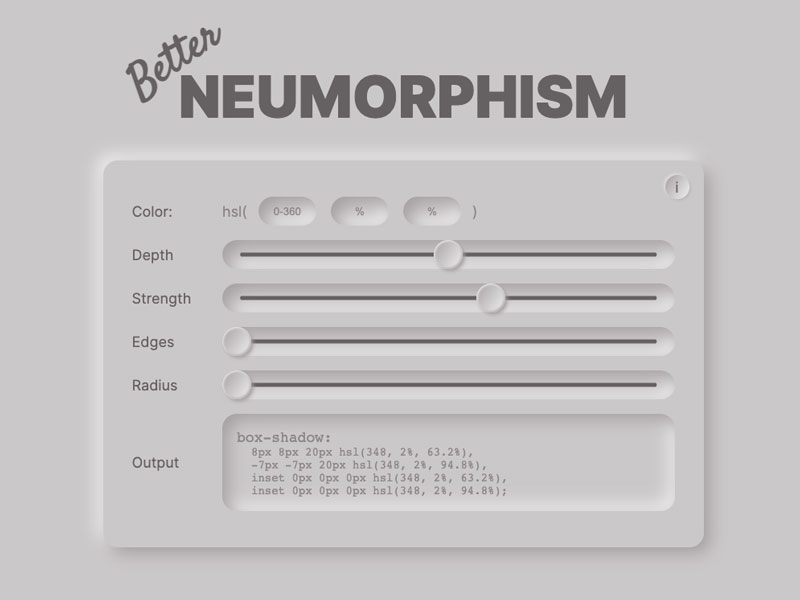
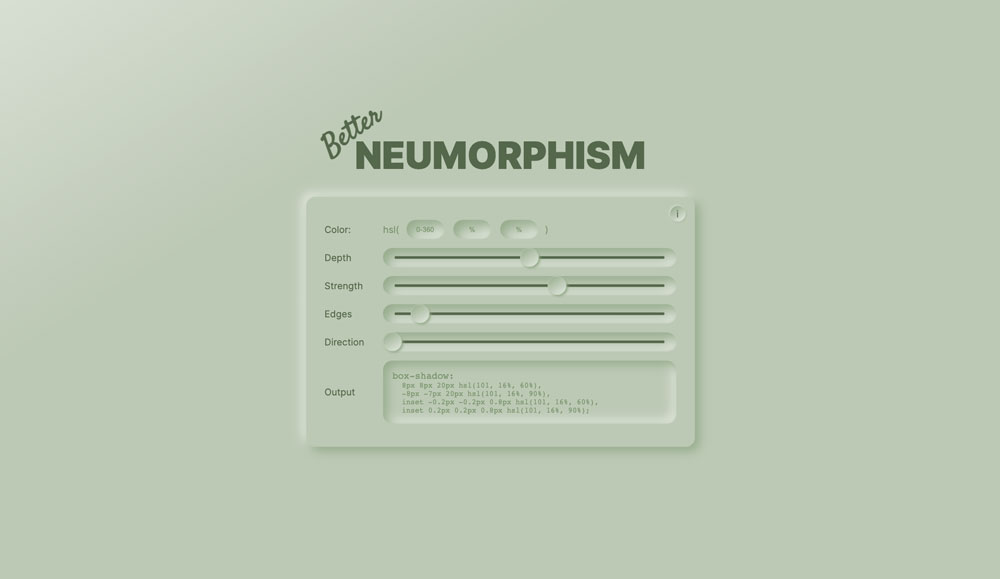
new share image and updated gradients

Changed region(s): [[0.0938, 0.0311, 0.9062, 0.9016], [0.1562, 0.9016, 0.875, 0.9326]]

diff --git a/index.html b/index.html
@@ -159,18 +159,6 @@
 							id="neu-edges"
 						/>
 					</div>
-					<!-- <div class="form-group">
-						<label for="neu-radius">Radius</label>
-						<input
-							type="range"
-							class="slider"
-							id="neu-radius"
-							min="1"
-							max="3"
-							step="0.01"
-							value="0"
-						/>
-					</div> -->
 					<div class="form-group">
 						<label for="neu-direction">Direction</label>
 						<input

diff --git a/index.js b/index.js
@@ -140,12 +140,6 @@ neuEdges.addEventListener("input", () => {
     setCss()
 });
 
-// Radius Slider
-// neuRadius.addEventListener("input", (e) => {
-//     radius = e.target.value
-//     root.style.setProperty("--neu-radius", `${radius}rem`);
-// });
-
 // Code Output
 function setCss() {
     const neuContainer = document.querySelector('.slider-container')

diff --git a/style.css b/style.css
@@ -273,7 +273,7 @@ code p:not(:first-child){
 	box-shadow: 
 		-1px -1px 4px var(--highlight),
 		1px 1px 4px var(--shadow);
-	background: linear-gradient(125deg, var(--color-dark), var(--color-light));
+	background: linear-gradient(var(--color-gradient));
 	cursor: pointer;
 	user-select: none;
 	-webkit-touch-callout: none;
